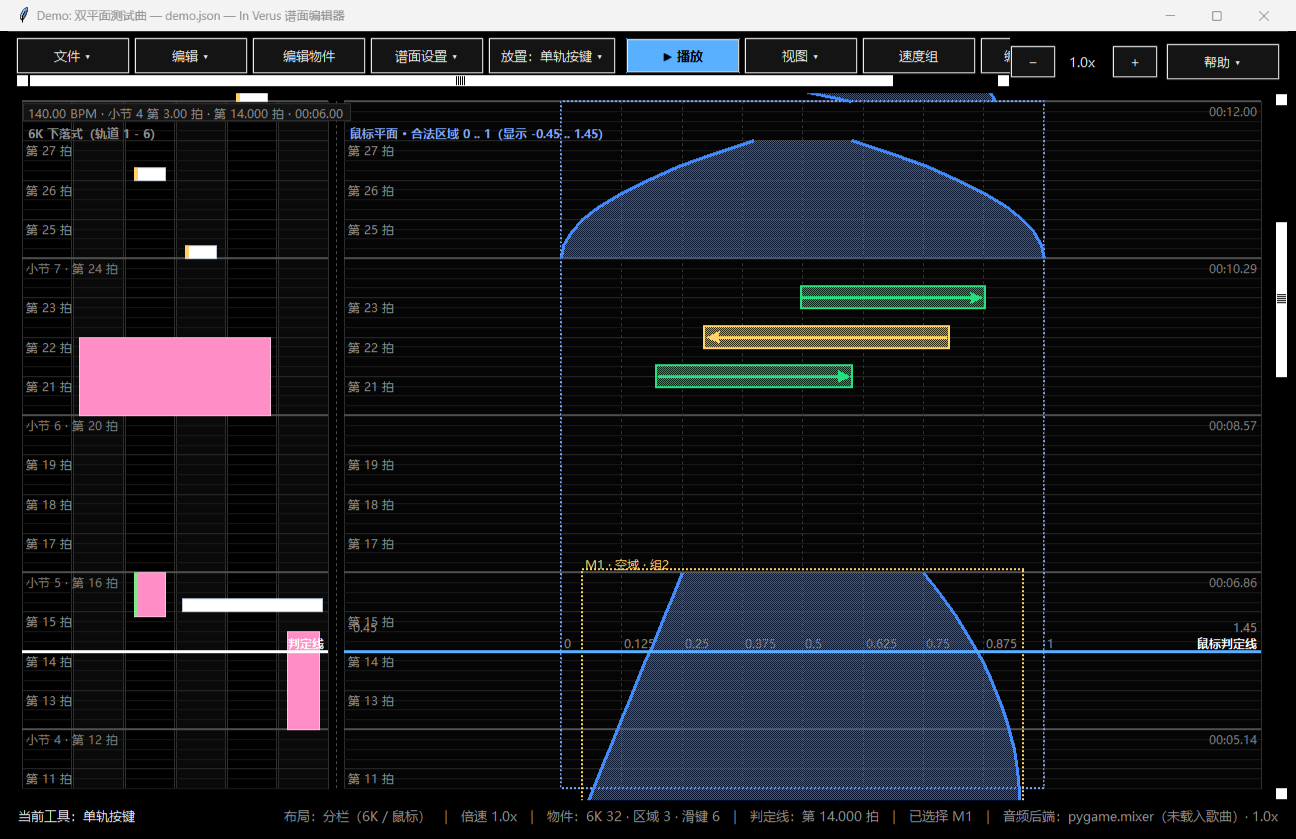
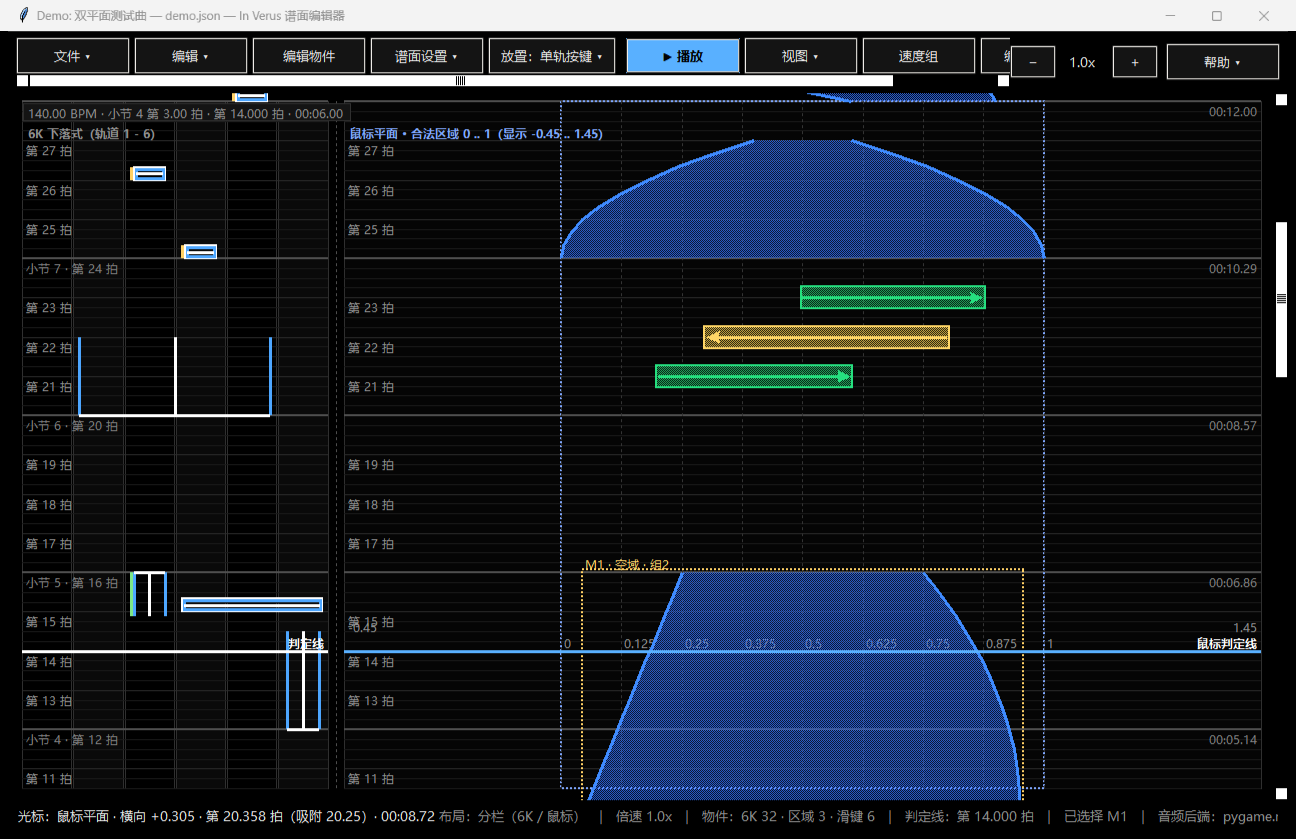
feat(render): 按键图案重做（单键蓝环白边+白横线；长按两侧蓝线+固定粗细白竖线+开头白横线）；多轨物件按跨度分层
- 单键/多轨单键：外侧白色描边 + 内缩 2px 亮蓝环 + 中间白色横线（位置居中）

- 长按/多轨长按：两侧亮蓝竖边线 + 中间白色竖线（宽度 theme.note_line_width，与跨轨道数无关）+ 开头处白色横线；内部不填充，交叠更可读

- 层内排序：多轨长按与多轨单键按跨轨道数从多到少绘制（越宽越靠下层），同跨度保持时间顺序

- 测试 189 项全部通过（新增 3 条：单键图案、长按图案与固定线宽、多轨跨度排序）；SPEC/DESIGN/VERIFICATION/CHANGELOG 与截图同步

diff --git a/src/rhythm_editor/ui/renderer.py b/src/rhythm_editor/ui/renderer.py
@@ -495,11 +495,15 @@ class Renderer:
         )
         for layer, matches, draw in layers:
             self.scene.set_layer(layer)
-            for note in notes:
-                if not matches(note):
-                    continue
-                if not note_in_time(note, view.current_beat):
-                    continue  # 判定时间已过 -> 不再显示
+            visible = [
+                note
+                for note in notes
+                if matches(note) and note_in_time(note, view.current_beat)
+            ]
+            if layer in (4, 6):
+                # 多轨物件：跨的轨道越多越先画（越靠下层），同跨度保持时间顺序
+                visible.sort(key=lambda n: n.lane_end - n.lane_start, reverse=True)
+            for note in visible:
                 draw(note, note.id in state.selection)
 
     def _draw_lane_note(
@@ -526,18 +530,49 @@ class Renderer:
             if abs(bottom - top) < TAP_MIN_PX:
                 # 退化成一个点时向上补足：起始位置始终贴在它的时间网格线上
                 top = bottom - TAP_MIN_PX
-            fill = theme.hold_pink
-            outline = theme.hold_border
+            style = "hold"
         else:
             top = y_head - TAP_MIN_PX
             bottom = y_head
-            fill = theme.note_white
-            outline = theme.note_border
+            style = "tap"
         if bottom < y_min or top > y_max:
             return
         self._hit_entries.append((note, (x0, top, x1, bottom), None))
-        key = f"note:{note.id}"
-        self.scene.rect(key, x0, top, x1, bottom, fill=fill, outline=outline, width=1)
+        if style == "hold":
+            # 长按：两侧蓝色边线 + 中间白色竖线（粗细固定，不随跨轨道数变化）
+            self.scene.line(
+                f"note-side-l:{note.id}", x0, top, x0, bottom,
+                fill=theme.note_blue, width=3,
+            )
+            self.scene.line(
+                f"note-side-r:{note.id}", x1, top, x1, bottom,
+                fill=theme.note_blue, width=3,
+            )
+            center = (x0 + x1) / 2.0
+            self.scene.line(
+                f"note:{note.id}", center, top, center, bottom,
+                fill=theme.note_white, width=theme.note_line_width,
+            )
+            # 开头处与单键相同的白色横线
+            self.scene.line(
+                f"note-head:{note.id}", x0, y_head, x1, y_head,
+                fill=theme.note_white, width=theme.note_line_width,
+            )
+        else:
+            # 单键 / 多轨单键：外侧白色边 + 亮蓝色环 + 中间一条白色横线
+            self.scene.rect(
+                f"note:{note.id}", x0, top, x1, bottom,
+                fill="", outline=theme.note_white, width=2,
+            )
+            self.scene.rect(
+                f"note-ring:{note.id}", x0 + 2, top + 2, x1 - 2, bottom - 2,
+                fill="", outline=theme.note_blue, width=3,
+            )
+            middle = (top + bottom) / 2.0
+            self.scene.line(
+                f"note-line:{note.id}", x0 + 2, middle, x1 - 2, middle,
+                fill=theme.note_white, width=theme.note_line_width,
+            )
         if selected:
             self.scene.rect(
                 f"sel:{note.id}",
@@ -550,14 +585,9 @@ class Renderer:
                 width=2,
             )
         if note.group != config.DEFAULT_GROUP_ID:
-            self.scene.rect(
-                f"grp:{note.id}",
-                x0,
-                top,
-                x0 + 4,
-                bottom,
-                fill=self._group_color(note.group),
-                outline="",
+            self.scene.line(
+                f"grp:{note.id}", x0 - 3, top, x0 - 3, bottom,
+                fill=self._group_color(note.group), width=3,
             )
         if selected:
             label = f"{note.id} · 轨道{note.lane_start + 1}-{note.lane_end + 1} · 组{note.group}"

diff --git a/tests/test_editor_smoke.py b/tests/test_editor_smoke.py
@@ -307,6 +307,64 @@ class EditorSmokeTest(unittest.TestCase):
         self.assertLess(index("note:ST"), index("region:RG"))
         self.assertLess(index("region:RG"), index("slide:SL"))
 
+    def test_tap_note_style(self) -> None:
+        """单键 / 多轨单键：外侧白色边 + 亮蓝色环 + 中间一条白色横线。"""
+        self.chart.add(LaneNote("T1", 2, 2, 2.0))
+        self.view.set_beat(0.0)
+        self.draw()
+        outer = dict(self.scene._items["note:T1"][2][1])
+        ring = dict(self.scene._items["note-ring:T1"][2][1])
+        line = dict(self.scene._items["note-line:T1"][2][1])
+        self.assertEqual(outer["outline"], DARK.note_white)
+        self.assertEqual(outer["fill"], "")
+        self.assertEqual(ring["outline"], DARK.note_blue)
+        self.assertEqual(ring["fill"], "")
+        self.assertEqual(line["fill"], DARK.note_white)
+        self.assertEqual(int(line["width"]), DARK.note_line_width)
+        # 白色横线在按键中间
+        outer_coords = self.scene._items["note:T1"][2][0]
+        line_coords = self.scene._items["note-line:T1"][2][0]
+        self.assertAlmostEqual(line_coords[1], (outer_coords[1] + outer_coords[3]) / 2, places=6)
+
+    def test_hold_note_style_and_constant_center_line(self) -> None:
+        """长按：两侧蓝色边线 + 中间白竖线（粗细固定，不随跨轨道数变化）+ 开头白横线。"""
+        self.chart.add(LaneNote("H1", 1, 1, 2.0, 4.0))     # 单轨长按
+        self.chart.add(LaneNote("H2", 0, 5, 2.0, 4.0))     # 跨 6 轨的长按
+        self.view.set_beat(0.0)
+        self.draw()
+        widths = set()
+        for note_id in ("H1", "H2"):
+            left = dict(self.scene._items[f"note-side-l:{note_id}"][2][1])
+            right = dict(self.scene._items[f"note-side-r:{note_id}"][2][1])
+            center = dict(self.scene._items[f"note:{note_id}"][2][1])
+            head = dict(self.scene._items[f"note-head:{note_id}"][2][1])
+            self.assertEqual(left["fill"], DARK.note_blue)
+            self.assertEqual(right["fill"], DARK.note_blue)
+            self.assertEqual(center["fill"], DARK.note_white)
+            self.assertEqual(head["fill"], DARK.note_white)
+            self.assertEqual(int(head["width"]), DARK.note_line_width)
+            widths.add(int(center["width"]))
+            # 开头横线位于起始拍的网格线（判定边）上
+            head_coords = self.scene._items[f"note-head:{note_id}"][2][0]
+            self.assertAlmostEqual(head_coords[1], self.view.beat_to_y(2.0), places=6)
+        self.assertEqual(widths, {DARK.note_line_width}, "白竖线粗细应与轨道数无关")
+
+    def test_multi_holds_stack_by_lane_span(self) -> None:
+        """同为多轨长按时，跨轨道越多越先画（越靠下层）。"""
+        wide = LaneNote("HW", 0, 5, 2.0, 4.0)
+        narrow = LaneNote("HN", 2, 3, 2.0, 4.0)
+        taps = LaneNote("TM", 1, 4, 2.0)
+        self.chart.add(narrow)
+        self.chart.add(wide)
+        self.chart.add(taps)
+        self.view.set_beat(0.0)
+        self.draw()
+        order = list(self.canvas.find_all())
+        index = lambda key: order.index(self.scene._items[key][0])  # noqa: E731
+        self.assertLess(index("note:HW"), index("note:HN"), "跨得多的长按应在下层")
+        # 多轨单键同样按跨度排序（同为多轨物件层）
+        self.assertLess(index("note:HN"), index("note:TM"))
+
     def test_hit_priority_follows_layer_order(self) -> None:
         """点击命中的优先顺序与图层一致：滑键 > 空域 > 单轨单键 > 多轨单键 > 单轨长按 > 多轨长按。"""
         hold_multi = LaneNote("MH", 1, 4, 0.0, 4.0)

diff --git a/src/rhythm_editor/ui/theme.py b/src/rhythm_editor/ui/theme.py
@@ -35,6 +35,8 @@ class Theme:
 
     note_white: str = "#ffffff"
     note_border: str = "#b9c6da"
+    note_blue: str = "#4da6ff"        # 按键的亮蓝色环 / 长按两侧边线
+    note_line_width: int = 3          # 白色横线 / 竖线粗细（单键与长按一致）
     hold_pink: str = "#ff8ec7"
     hold_border: str = "#ffc0e0"
 

diff --git a/docs/VERIFICATION.md b/docs/VERIFICATION.md
@@ -113,7 +113,7 @@ python tools/check_audio.py
 
 | 项目 | 命令 | 结果 |
 | --- | --- | --- |
-| 单元测试（含 Tk 画布冒烟测试与应用级测试） | `python -m unittest discover -s tests -t .` | Ran 187 tests — **OK** |
+| 单元测试（含 Tk 画布冒烟测试与应用级测试） | `python -m unittest discover -s tests -t .` | Ran 189 tests — **OK** |
 | 需求验收清单 | `python tools/acceptance.py` | 13 项全部 `[OK ]`，结论：全部通过 |
 | 音频后端 | `python tools/check_audio.py` | 9 项全部 `[OK ]`（pygame.mixer 真实播放，延迟补偿正确） |
 | 示例谱面生成 | `python run_editor.py --make-demo` | 生成 `charts/demo/demo.json`（6K 32 / 区域 3 / 滑键 6 / 4 个速度组） |
@@ -210,6 +210,9 @@ python tools/check_audio.py
 | `tests/test_editor_smoke.py::test_note_layer_order_matches_readability_spec` | 六层绘制顺序（画布图元次序）符合规格 |
 | `tests/test_editor_smoke.py::test_hit_priority_follows_layer_order` | 命中优先级与图层一致（滑键 > 空域 > 单轨单键 > …） |
 | `tests/test_undo_records.py`（10 条） | 差量撤销：增删/粘贴/镜像/编辑/改组/改元数据与 BPM 的撤销重做等价性、记录量只随改动量增长、栈上限、选择还原 |
+| `tests/test_editor_smoke.py::test_tap_note_style` | 单键图案：白边 + 亮蓝环 + 中间白横线（位置居中） |
+| `tests/test_editor_smoke.py::test_hold_note_style_and_constant_center_line` | 长按图案：两侧蓝线 + 白竖线（粗细与轨道数无关）+ 开头白横线贴在起始拍上 |
+| `tests/test_editor_smoke.py::test_multi_holds_stack_by_lane_span` | 多轨层内排序：跨得越多越靠下层 |
 | `tests/test_chart_io.py::test_suffix` | 只支持 JSON：任何后缀都会被规范成 `.json` |
 | `tests/test_app_flow.py::test_fullscreen_toggle` | 全屏开关切换 |
 | `tests/test_app_flow.py::test_maximized_by_default` | 默认最大化（`-fullscreen` 属性为 0），不是无边框全屏 |

diff --git a/docs/SPEC.md b/docs/SPEC.md
@@ -12,7 +12,10 @@
    * 单轨按键：只占 1 条轨道。
    * 多轨按键：横跨相邻多条轨道（`lane_start..lane_end`）。
    * 长按：占据一段时间区间（可跨轨道）。
-   * 显示：按键一律**白色矩形**；长按为**粉色**矩形。
+  * 显示：单键 / 多轨单键为**外侧白色边 + 亮蓝色环 + 中间一条白色横线**；
+    长按为**两侧亮蓝色边线 + 中间白色竖线**（竖线粗细与单键的横线相同、
+    不随跨轨道数变化），并在**开头处**画一条与单键相同的白色横线；
+    长按内部不填充，交叠时不会遮住其它物件。
 2. **鼠标平面**：叠加在 6K 的**中间四条轨道**上（轨道索引 1..4，0 基）。
    * 停留区域：物件出现期间，鼠标必须停留在区域内；显示为**半透明蓝色**填充 +
      **不透明**边界线，且**只绘制左右两条边界线**（不画上下封口横线）。
@@ -165,6 +168,7 @@
 * **物件图层（自下而上）**：多轨长按 → 单轨长按 → 多轨单键 → 单轨单键 → 空域 → 滑键。
   这样即便谱面被有意写成非法重叠，小按键也压在长按之上、空域与滑键再压在最上面，
   交叠处依然可读；点击命中的优先顺序与图层一致。
+  同一层里，多轨物件**跨的轨道越多越靠下层**（同跨度保持时间顺序）。
 * 长度显示：**方框严格按实际长度绘制**（不做任何拉伸），只有箭头保留最小长度限制，
   保证很短的滑键也能看清方向。
 * 放置预览：选择起点时只画**一根黄色虚线**标出即将放置的横向位置；选择终点时按方向给出

diff --git a/CHANGELOG.md b/CHANGELOG.md
@@ -58,7 +58,11 @@
   速度组成员改为按 id 排序输出，存档结果可复现。
 * **物件图层顺序按可读性重排**（自下而上）：多轨长按 → 单轨长按 → 多轨单键 →
   单轨单键 → 空域 → 滑键；命中优先级同步一致，非法重叠时也能看清每个物件。
-* **新增播放倍速**：顶栏右侧的 `［−］［当前倍速］［＋］`（替换原缩放按钮），
+* **按键图案重做**：单键 / 多轨单键改为「外侧白色边 + 亮蓝色环 + 中间白色横线」；
+  长按改为「两侧亮蓝色边线 + 中间白色竖线 + 开头一条白色横线」，
+  白竖线粗细与单键一致且**不随跨轨道数变化**，长按内部不再填充（交叠时更可读）。
+* **多轨物件层内排序**：同为多轨长按（以及多轨单键）时，**跨轨道越多越靠下层**，
+  同跨度保持时间顺序。
 * **新增播放倍速**：顶栏右侧的 `［−］［当前倍速］［＋］`（替换原缩放按钮），
   0.1x 一档、范围 0.1 ~ 1.0x。变速同时改变谱面推进速度与音频速度，
   **不改变绘制的物件间隔**（缩放不变）；音频用 WSOLA 时间伸缩，**音调不变**。

diff --git a/docs/DESIGN.md b/docs/DESIGN.md
@@ -139,6 +139,16 @@ y_note  = judgment_y − D(t) × 每拍像素
 小按键也压在长按之上、半透明空域与滑键再压在最上面，交叠处依然可读。
 命中优先级（`geometry._depth`）与这套图层**完全一致**，保证“点到的就是你看到的”。
 
+层内顺序：多轨物件（多轨长按 / 多轨单键）按**跨轨道数从多到少**排序，
+跨得越多越先画（越靠下层），于是窄物件不会被宽物件压住。
+
+按键图案（`Renderer._draw_lane_note`）：
+
+| 物件 | 图案 |
+| --- | --- |
+| 单键 / 多轨单键 | 外侧白色描边矩形 + 内缩 2px 的亮蓝色环 + 中间一条白色横线 |
+| 长按 / 多轨长按 | 两侧亮蓝色竖边线 + 中间白色竖线（粗细固定 `theme.note_line_width`，与轨道数无关）+ 开头处一条白色横线；内部不填充 |
+
 物件的可见性有两道判据，二者互不替代：
 
 1. **像素范围**（`_draw_notes` 内按算出的 y / 多边形包围盒剔除）——
